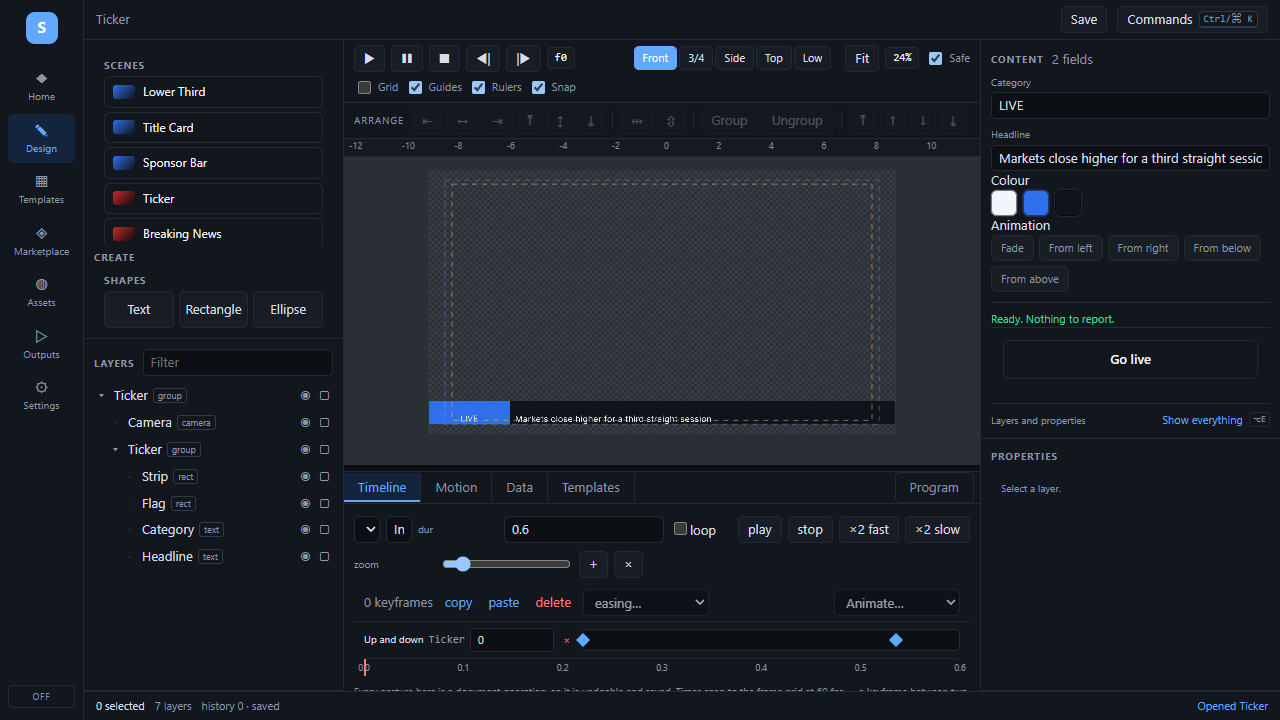
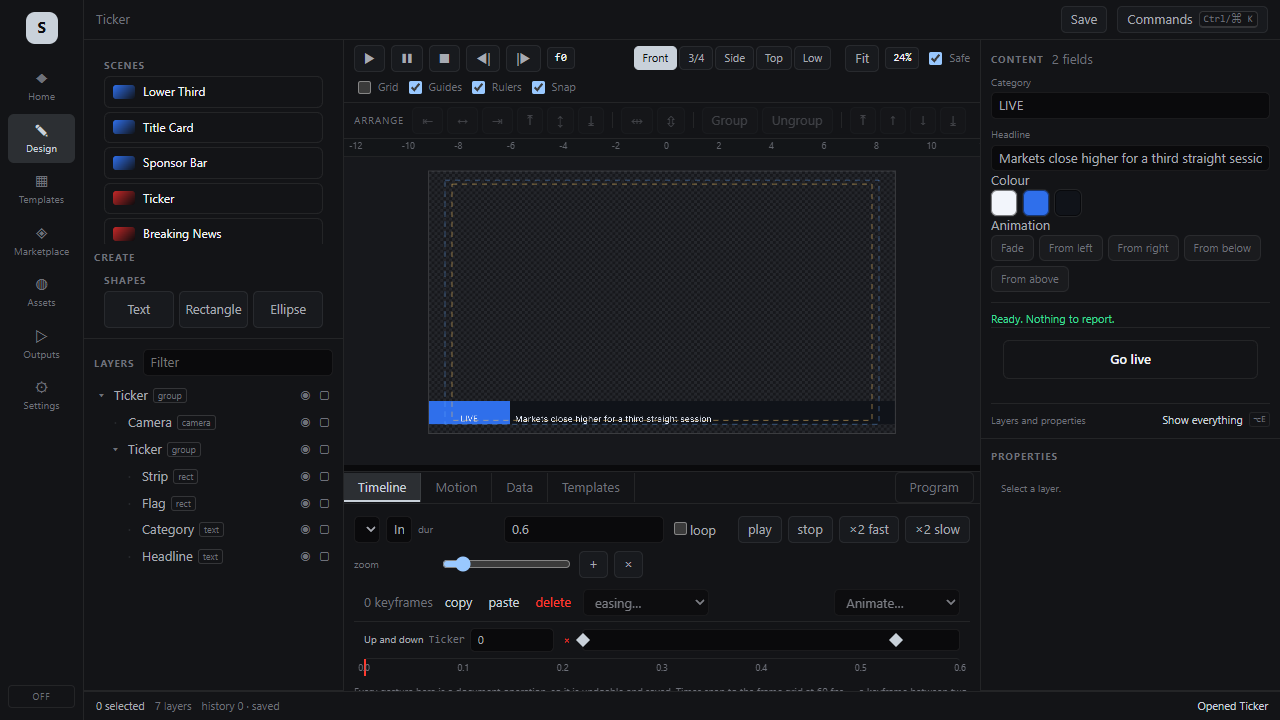
fix(studio): the palette is the Design OS palette
Asked whether the running UI matches the Design OS, I checked instead of
answering from memory, and it did not. The divergence was in the tokens
themselves, which means it was in every pixel.

THE CHASSIS WAS BLUE. #0c0f14 and #12161d — a blue-tinted dark IDE, where the
Design OS specifies #0a0a0c and #131417: a machined instrument, near-black and
uncoloured. A chassis with a hue of its own competes with the graphic being
authored, which is the one thing on screen allowed to be colourful.

THE ACCENT WAS A COLOUR. #62a8ff said "selected" in exactly the voice a status
colour uses. The Design OS accent is #c9d1da — a near-white cool grey — which
leaves red, teal, amber and green free to mean one thing each: on air,
preview, warning, ready. That is not a stylistic preference. In a gallery, a
blue meaning "selected" and a red meaning "on air" compete for the same
glance, and the wrong one can win.

`--live`, `--preview`, `--warn` and `--ok` are now the Design OS values, and
the on-air button uses `--live` rather than a hardcoded #d4342c that happened
to be near it.

The light theme is warm — a lit studio with a bronze accent rather than the
blue-white of an office application. The state colours do not change: on air
is on air in any light.

Also landed: the type scale and its tracking (which tightens as size grows,
and goes WIDE at 9px because that size is only ever uppercase labels), the
three type roles, the three named easings, and the surface treatment tokens.
[…]

diff --git a/apps/studio/src/styles.css b/apps/studio/src/styles.css
@@ -16,45 +16,157 @@
 
 :root,
 :root[data-theme="dark"] {
-  --bg: #0c0f14;
-  --panel: #12161d;
-  --panel-2: #171c25;
-  --line: #232a35;
-  --line-strong: #303a49;
-  --text: #d8dee8;
-  --text-strong: #f2f5fa;
-  --dim: #8b97a8;
-  --accent: #62a8ff;
-  --accent-bg: #1f6feb26;
-  --good: #63d297;
-  --warn: #f0c164;
-  --bad: #ff7a7a;
-  /* Tally red. `--bad` is a light error text colour and would be unreadable
-     behind white; on-air needs a saturated fill, and it must read as on-air
-     from across a gallery. */
-  --onair: #c62828;
-  --canvas-void: #2a2e35;
-  --checker: #3a3f47;
+  /* ------------------------------------------------------------------
+     THE CHASSIS
+     ------------------------------------------------------------------
+     Neutral, not blue. The interface was a blue-tinted dark IDE
+     (#0c0f14 / #12161d) while the Design OS specifies a machined
+     instrument: near-black, uncoloured, so that EVERY colour on screen
+     means something. A chassis with a hue of its own competes with the
+     graphic being authored, which is the one thing on screen that is
+     allowed to be colourful. */
+  --chassis: #0a0a0c;
+  --bg: #0a0a0c;
+  --panel: #131417;
+  --panel-hi: #181a1e;
+  --panel-2: #181a1e;
+  --control: #20232a;
+  --control-hi: #292d35;
+  --well: #050506;
+
+  --line: rgba(255, 255, 255, 0.07);
+  --hair: rgba(255, 255, 255, 0.055);
+  --hair-strong: rgba(255, 255, 255, 0.1);
+  --seam: rgba(0, 0, 0, 0.55);
+  --line-strong: rgba(255, 255, 255, 0.14);
+
+  --ink: #f3f4f6;
+  --ink-2: #a7aab2;
+  --ink-3: #6e717a;
+  --text: #a7aab2;
+  --text-strong: #f3f4f6;
+  --dim: #6e717a;
+
+  /* ------------------------------------------------------------------
+     COLOUR MEANS STATE. NOTHING ELSE.
+     ------------------------------------------------------------------
+     The accent was #62a8ff — a bright blue that said "selected" in the
+     same voice a status colour would use. In the Design OS the accent is
+     a near-white cool grey, which leaves red, teal, amber and green free
+     to mean exactly one thing each: on air, preview, warning, ready.
+     That is not a stylistic preference. In a gallery, a blue that means
+     "selected" and a red that means "on air" are competing for the same
+     glance. */
+  --accent: #c9d1da;
+  --accent-2: #9aa5b1;
+  --accent-bg: rgba(201, 209, 218, 0.14);
+
+  --live: #ff3b30;
+  --onair: #ff3b30;
+  --preview: #2ee6c8;
+  --warn: #ffb020;
+  --ok: #3ddc97;
+  --good: #3ddc97;
+  --bad: #ff3b30;
+
+  /* Keycaps are light with dark ink — a physical key, not a painted one. */
+  --key: #eef0f3;
+  --key-2: #c6cad1;
+  --key-ink: #0c0d10;
+
+  --canvas-void: #17181c;
+  --checker: #26282d;
+
+  /* Surface treatment. Small numbers on purpose: at these strengths they
+     read as material rather than as texture. */
+  --grain: 0.042;
+  --sheen: 0.04;
+  --brush: 0.012;
+  --edge: inset 0 1px 0 var(--hair), inset 0 -1px 0 var(--seam);
+  --edge-key: inset 0 1px 0 var(--hair-strong), inset 0 -1px 0 rgba(0, 0, 0, 0.7);
+  --recess: inset 0 2px 6px rgba(0, 0, 0, 0.7), inset 0 1px 0 rgba(0, 0, 0, 0.5);
+
   color-scheme: dark;
 }
 
+/* ------------------------------------------------------------------------
+   TYPE AND MOTION, as the Design OS defines them
+   ------------------------------------------------------------------------
+   Three roles, one scale, and letter-spacing that tightens as size grows —
+   which is what stops a 20px title looking loose beside 13px body text. The
+   micro size is tracked WIDE (.16em) because it is only ever used for
+   uppercase labels, where tight tracking is unreadable. */
+:root {
+  --display: ui-sans-serif, -apple-system, "Segoe UI Variable Display", "Segoe UI", system-ui, sans-serif;
+  --iface: ui-sans-serif, -apple-system, "Segoe UI Variable Text", "Segoe UI", system-ui, sans-serif;
+  --meta: ui-monospace, "Cascadia Mono", "SF Mono", "Roboto Mono", Menlo, monospace;
+
+  --t-title: 20px;   --tr-title: -0.028em;
+  --t-head: 14px;    --tr-head: -0.018em;
+  --t-body: 13px;    --tr-body: -0.004em;
+  --t-small: 11px;   --tr-small: 0em;
+  --t-micro: 9px;    --tr-micro: 0.16em;
+
+  /* `press` for a control acknowledging a click, `glide` for something
+     arriving, `weight` for something that has mass. */
+  --press: cubic-bezier(0.3, 0.7, 0.4, 1);
+  --glide: cubic-bezier(0.16, 1, 0.3, 1);
+  --weight: cubic-bezier(0.45, 0.05, 0.15, 1);
+}
+
 :root[data-theme="light"] {
-  --bg: #eef1f5;
-  --panel: #f8fafc;
-  --panel-2: #eceff4;
-  --line: #d6dce5;
-  --line-strong: #b9c2ce;
-  --text: #1e2733;
-  --text-strong: #0b1119;
-  --dim: #61708a;
-  --accent: #1f6feb;
-  --accent-bg: #1f6feb1f;
-  --good: #16794a;
-  --warn: #8a6100;
-  --bad: #b42318;
+  /* Warm, not cool. The Design OS light theme is a lit studio — a warm grey
+     chassis with a bronze accent — rather than the blue-white of an office
+     application. The state colours do not change: on air is on air in any
+     light. */
+  --chassis: #dbd8d3;
+  --bg: #dbd8d3;
+  --panel: #eeece8;
+  --panel-hi: #f6f5f2;
+  --panel-2: #f6f5f2;
+  --control: #fcfbfa;
+  --control-hi: #ffffff;
+  --well: #c3bfb9;
+
+  --line: rgba(0, 0, 0, 0.1);
+  --hair: rgba(255, 255, 255, 0.95);
+  --hair-strong: #ffffff;
+  --seam: rgba(0, 0, 0, 0.1);
+  --line-strong: rgba(0, 0, 0, 0.2);
+
+  --ink: #16171a;
+  --ink-2: #53555b;
+  --ink-3: #83858c;
+  --text: #53555b;
+  --text-strong: #16171a;
+  --dim: #83858c;
+
+  --accent: #8a6a3a;
+  --accent-2: #6d5129;
+  --accent-bg: rgba(138, 106, 58, 0.16);
+
+  --live: #ff3b30;
   --onair: #c62828;
-  --canvas-void: #dfe4ea;
-  --checker: #cfd6de;
+  --preview: #0f9b8a;
+  --warn: #8a6100;
+  --ok: #16794a;
+  --good: #16794a;
+  --bad: #b42318;
+
+  --key: #2a2b30;
+  --key-2: #141519;
+  --key-ink: #ffffff;
+
+  --canvas-void: #cbc7c1;
+  --checker: #bdb9b3;
+
+  --grain: 0.03;
+  --sheen: 0.55;
+  --brush: 0.028;
+  --edge: inset 0 1px 0 #fff, inset 0 -1px 0 rgba(0, 0, 0, 0.12);
+  --edge-key: inset 0 1px 0 rgba(255, 255, 255, 0.2), inset 0 -1px 0 rgba(0, 0, 0, 0.3);
+  --recess: inset 0 2px 6px rgba(0, 0, 0, 0.14), inset 0 1px 0 rgba(0, 0, 0, 0.06);
+
   color-scheme: light;
 }
 
@@ -536,7 +648,7 @@ kbd {
   width: 100%; padding: 5px 8px; font: inherit; font-size: 12px; text-align: left;
   background: none; border: 0; border-radius: 4px; color: inherit; cursor: pointer;
 }
-.context-menu button:hover:not(:disabled) { background: var(--accent); color: #fff; }
+.context-menu button:hover:not(:disabled) { background: var(--accent); color: var(--key-ink); }
 .context-menu button:disabled { opacity: 0.38; cursor: default; }
 .context-menu kbd {
   font: inherit; font-size: 10px; opacity: 0.6; letter-spacing: 0.04em;

diff --git a/apps/studio/src/shell.css b/apps/studio/src/shell.css
@@ -56,7 +56,7 @@
 .rail-mark {
   display: grid; place-items: center;
   width: 32px; height: 32px; margin: 0 auto var(--s4);
-  border-radius: 9px; background: var(--accent); color: #fff;
+  border-radius: 9px; background: var(--accent); color: var(--key-ink);
   font-weight: 700; font-size: 15px; letter-spacing: -0.02em;
 }
 .rail-item {
@@ -249,8 +249,9 @@
   border-radius: var(--radius-sm); border: 1px solid var(--line);
   background: var(--panel); color: var(--text-strong); cursor: pointer;
 }
-.air-foot .air:hover { border-color: #d4342c; color: #d4342c; }
-.air-foot .air.on { background: #d4342c; border-color: #d4342c; color: #fff; }
+.air-foot .air:hover { border-color: var(--live); color: var(--live); }
+/* On air is --live, the one colour the Design OS reserves for it. */
+.air-foot .air.on { background: var(--live); border-color: var(--live); color: #fff; }
 
 /* Scenes in the left dock — the only place a scene and the stage share a
    screen, so the only place the drag is real. */
@@ -276,7 +277,7 @@
    rather than five loose buttons. */
 .views { display: inline-flex; gap: 2px; margin-right: var(--s2); }
 .views .chip { padding: 3px 8px; font-size: 11px; }
-.views .chip.on { background: var(--accent); border-color: var(--accent); color: #fff; }
+.views .chip.on { background: var(--accent); border-color: var(--accent); color: var(--key-ink); }
 
 /* QUALITY. Cards, not a dropdown: this is a choice with consequences a user
    should be able to read before making, and a select hides its options. */
